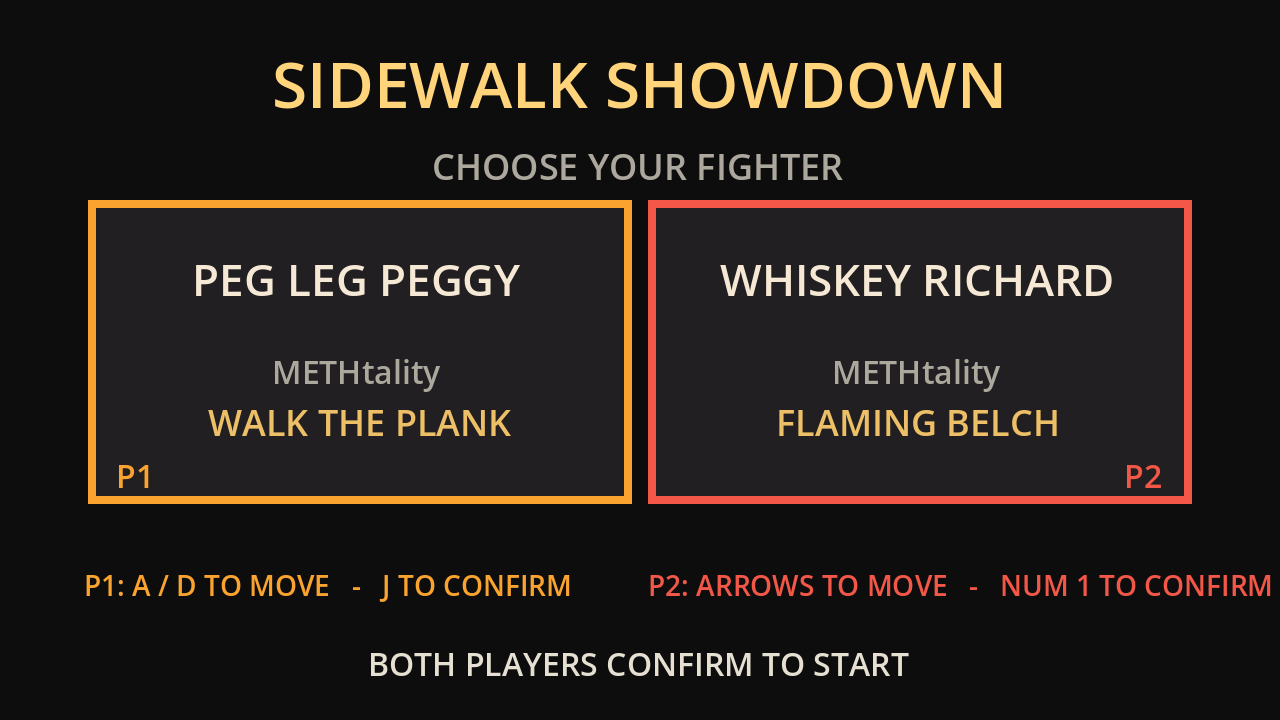
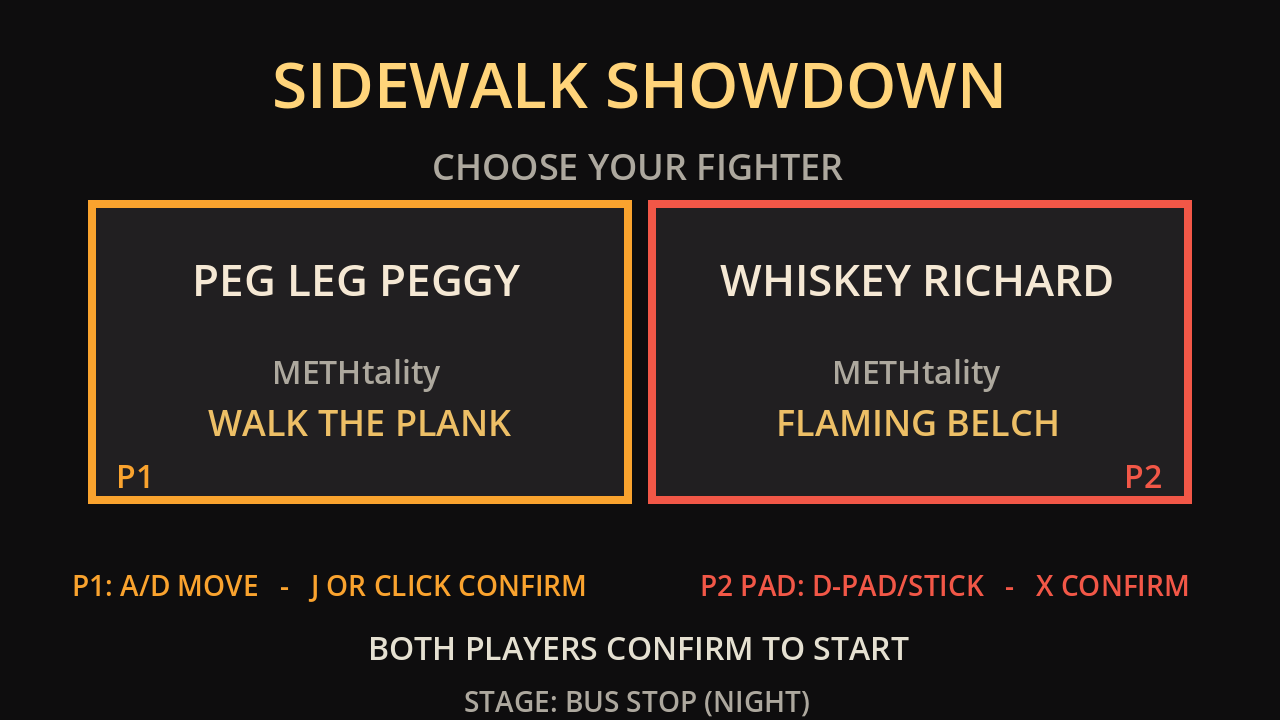
feat(input): add controller support with P1 keyboard/mouse, P2 pad (#53)
Implements GDD §4.2's gamepad column and the owner's device policy: P1 plays on
keyboard + mouse, P2 plays on a controller (any connected pad, d-pad or left
stick). P2's old arrow/numpad bindings are removed, so a single keyboard cannot
drive both fighters.

Pad layout follows GDD §4.2: X light, Y heavy, B special, A grab, right shoulder
METHtality, Start pause. P1 gains mouse alternates (left/right/middle click for
light/heavy/special). ui_confirm/ui_back keep their keyboard events and gain pad
south/east.

The generator stays idempotent (re-running replaces identical bindings instead
of stacking duplicates) and still documents the [physics] 60 Hz caveat.

Tests replace the keyboard-only input-map sweep with a type-aware one that
replays keys (device 16), mouse (-1), and pad (0) events, asserts P1 has no
controller bindings and P2 none keyboard/mouse, and drives a synthetic pad press
through Input to prove it reaches only P2.

Docs: README controls, input-map notes, phase/known-issue status, GDD §14 note,
and the refreshed character-select screenshot showing the new P2 prompt.

Changed region(s): [[0.2812, 0.8861, 0.7188, 1.0], [0.5, 0.7944, 1.0, 0.825], [0.0625, 0.7944, 0.4688, 0.825]]

diff --git a/docs/KNOWN_ISSUES.md b/docs/KNOWN_ISSUES.md
@@ -76,9 +76,10 @@ reconciliation for the finding-by-finding dispositions.
   Peggy/Richard-only vertical-slice scope. Per owner direction (2026-11-12), an
   initial procedural silhouette-animation pass is underway; authored sprite
   frames remain deferred.
-- Gamepad support and in-game input remapping are GDD §4.1/§4.6/§14
-  requirements but are not implemented; the current input map is generated from
-  a fixed keyboard table.
+- Gamepad support is implemented (2026-11-16): P1 uses keyboard + mouse and P2
+  uses a controller, per owner direction. In-game input remapping is still a GDD
+  §4.1/§4.6/§14 requirement and is not implemented; the input map is generated
+  from a fixed table in `game/tools/setup_input.gd`.
 - METHtality activation requires full meter only; opponent health, state, and
   invulnerability do not gate starting the finisher. GDD §5.9's final-round
   finish prompt and cinematic remain future design/implementation.
@@ -173,13 +174,28 @@ the generator and regenerate:
 godot --headless --path game --script res://tools/setup_input.gd
 ```
 
-Every event is written with `device = -1` (matches any device). In Godot 4.7 a
-new `InputEventKey` reports the local keyboard's concrete device id (`16` on the
-dev machine), and the serializer writes whatever it holds; a concrete stamp
-therefore makes the map depend on the machine that generated it. Physical
+**Device policy (owner decision, 2026-11-16):** P1 is keyboard + mouse only; P2
+is controller only.
+
+- `p1_*` gets `InputEventKey` bindings plus mouse alternates for light (left
+  click), heavy (right click), and special (middle click). No joypad events.
+- `p2_*` gets only `InputEventJoypadButton` / `InputEventJoypadMotion` events:
+  d-pad or left stick to move, X light, Y heavy, B special, A grab, right
+  shoulder METHtality, Start pause (GDD §4.2). Any arrow/numpad binding from the
+  old shared keyboard map was removed. `ui_confirm`/`ui_back` keep their keyboard
+  events and gain pad south/east.
+- Joypad events use `device = -1`, so whichever pad is connected drives P2
+  regardless of port. Two-player local play is therefore keyboard/mouse vs pad.
+
+Every keyboard event is written with `device = -1` (matches any device). In Godot
+4.7 a new `InputEventKey` reports the local keyboard's concrete device id (`16`
+on the dev machine), and the serializer writes whatever it holds; a concrete
+stamp therefore makes the map depend on the machine that generated it. Physical
 keyboard events observed through XTest carry device `16`, so
-`game/tests/combat_test.gd` replays each mapped key with device `16` and fails if
-any of them stops resolving.
+`game/tests/combat_test.gd` replays each mapped key with device `16`, each pad
+event with device `0`, and each mouse event with device `-1`, and fails if any of
+them stops resolving. It also asserts that P2 has no keyboard/mouse bindings and
+P1 has no controller bindings.
 
 Regeneration caveat: `ProjectSettings.save()` omits settings whose value equals
 the engine default, and `physics/common/physics_ticks_per_second = 60` *is* the
@@ -267,7 +283,9 @@ that section by hand afterward — the simulation step comes from
   numbers and the reward/whiff-punish ratios (0.80 Peggy / 0.97 Richard) are
   informational; owner decision (2026-11-07): confirmed provisional, revisit in
   Phase 9.
-- **No character/stage select.** Fixed matchup + Bus Stop (Night).
+- **No stage select.** Character select exists and reads the shared roster, but
+  the match always starts on the roster's first stage (Bus Stop (Night)); there
+  is no stage picker or stage rotation yet.
 - **Debug overlay is dev-only.** Boxes, frame state, frame advantage, input
   history, slow motion, frame-step and refill exist; there is no AI state view
   (there is no AI yet) and no hitbox-invariant assertions.
@@ -323,7 +341,7 @@ These are measured or first-pass limits, not phase-exit validation.
 
 ## Test coverage
 
-- `game/tests/combat_test.gd` — **337 checks**: distinct Peggy/Richard sheet
+- `game/tests/combat_test.gd` — **340 checks**: distinct Peggy/Richard sheet
   artwork in walk states, the authored idle sheet (selection, visibility, cel
   cadence, wrap, hitstop/pause freeze, re-entry reset, facing pivot, and the
   missing-art fallback), unchanged combat boxes, clean hits and

diff --git a/README.md b/README.md
@@ -37,7 +37,7 @@ who turns sidewalk chaos into a rigged tournament.**
 - **Match structure** — rounds, timer, sudden death after repeated timeouts,
   KO flow, pause menu, and a text-only Tripp commentary sample.
 
-Not in yet: gamepad and remapping, stage select, CPU AI, campaign, final
+Not in yet: input remapping, stage select, CPU AI, campaign, final
 audio/voice/VFX, and final art/cleaning for some clips. Online play is deferred
 beyond v0.1 per GDD §2.4/§16.
 
@@ -56,25 +56,28 @@ godot --headless --path game --script res://tests/character_select_test.gd
 godot --headless --path game --script res://tests/the_clip_test.gd
 ```
 
-Current suites: **combat 337 checks**, round flow 34, character select 18,
+Current suites: **combat 340 checks**, round flow 34, character select 18,
 The Clip 23 — all green in CI (`tests.yml`). `tests/air_probe.gd` prints balance
 metrics and asserts nothing.
 
 ## Controls
 
-Both players share one keyboard: **P1 is WASD only**, the arrow keys belong to P2.
+**P1 plays on keyboard + mouse; P2 plays on a controller.** Any connected pad
+drives P2, using either the d-pad or the left stick to move. The pad layout is
+GDD §4.2's: X light, Y heavy, B special, A grab, right shoulder for the
+METHtality finisher.
 
-| Action | P1 (Peg Leg Peggy) | P2 (Whiskey Richard) |
+| Action | P1 keyboard / mouse | P2 controller |
 |---|---|---|
-| Move | A / D | ← / → (or Numpad 4 / 6) |
-| Jump | W | ↑ (or Numpad 8) |
-| Crouch | S | ↓ (or Numpad 2) |
-| Light attack | J | Numpad 1 or `,` |
-| Heavy attack | K | Numpad 3 or `.` |
-| Special | L | Numpad 5 or `/` |
-| Grab / throw | U | Numpad 7 or `;` |
-| METHtality | I | Numpad 9 or `'` |
-| Pause | Esc | Numpad 0 |
+| Move | A / D | D-pad or left stick |
+| Jump | W | D-pad up or stick up |
+| Crouch | S | D-pad down or stick down |
+| Light attack | J or left click | X |
+| Heavy attack | K or right click | Y |
+| Special | L or middle click | B |
+| Grab / throw | U | A |
+| METHtality | I | Right shoulder (RB/R1) |
+| Pause | Esc | Start / Menu |
 
 - **Block** by holding away from the opponent (down-away blocks lows), including
   during blockstun. Chip damage cannot KO — a blocked hit always leaves 1 HP.
@@ -83,14 +86,15 @@ Both players share one keyboard: **P1 is WASD only**, the arrow keys belong to P
 - **METHtality:** with a full meter, press METHtality to spend the whole bar.
   Current presentation is a freeze plus banner; the normal KO flow ends the round.
 - **Specials are directional:** neutral, forward, back, down, and air (GDD §4.4).
-- `Enter` restarts after a match ends. Pause menu drives with W/S, arrows, or
-  Numpad 8/2; J, Numpad 1, or Enter picks.
+- `Enter` restarts after a match ends. Pause menu drives with W/S, the d-pad or
+  stick, or arrows; J, X, or Enter picks.
 
 Debug keys: **F1** boxes (on by default), **F2** frame state/advantage/invuln,
 **F3** input history, **F4** slow motion, **F5** frame-step, **F6** refill both
-fighters. Regenerate the input map with
-`godot --headless --path game --script res://tools/setup_input.gd` after editing
-the table above.
+fighters. The input map is generated, not hand-edited: change the tables in
+`game/tools/setup_input.gd` and run
+`godot --headless --path game --script res://tools/setup_input.gd`, then restore
+the `[physics] 60 Hz` entry that `ProjectSettings.save()` drops (the tool says so).
 
 ## Builds
 

diff --git a/docs/PHASE_STATUS.md b/docs/PHASE_STATUS.md
@@ -73,7 +73,7 @@ phase exit criteria:
   blocking and round flow work, and the match can end/restart.
 - **Status:** **Implemented and regression-verified.** The Peggy/Richard slice,
   Bus Stop stage, combat, HUD, round manager, debug overlay, and pause path exist.
-  The current suites contain 337 combat, 34 round-flow, 15 audio/select
+  The current suites contain 340 combat, 34 round-flow, 18 audio/select
   integration, and 23 intro checks. K1, R1, corner separation, bounded hitstop
   buffer freeze, and the
   post-KO winner-state repair are covered. Non-METH strikes reject during
@@ -161,7 +161,9 @@ phase exit criteria:
   `Array[StageData]`); `MatchRoot` builds the stage from `selected_stage.scene`
   and no longer preloads either fighter or the Bus Stop scene, so adding a
   fighter or stage is a roster edit rather than a code edit.
-  Input has no remapping UI; training is limited to debug controls; AI,
+  Gamepad play is implemented (2026-11-16): P1 keyboard + mouse, P2 controller,
+  with the standard pad attack layout. There is no remapping UI; training is
+  limited to debug controls; AI,
   save/unlock, a full audio manager/mixer, and an authored hitbox editor workflow
   are missing. A small Phase 2 audio service plays the temporary track and cues.
   Dash/backdash states are absent.

diff --git a/docs/PIXELORAMA_PIPELINE.md b/docs/PIXELORAMA_PIPELINE.md
@@ -395,7 +395,7 @@ Runtime (`game/scripts/combat/richard_clip_library.gd`, new; `fighter_base.gd`):
   hold, and procedural-transform suppression are shared with Peggy and
   unchanged; the only per-fighter data is the table.
 
-Tests: `combat_test.gd` extended to **337 checks, 0 failures**. New Richard
+Tests: `combat_test.gd` extended to **340 checks, 0 failures**. New Richard
 coverage: library integrity (cel geometry, 39 distinct enabled textures),
 all-16 move mapping incl. `richard_*` targets, gated optional clips, live
 walk/crouch-hold/crouch-entry, exact light/heavy/meth phase boundaries,
@@ -493,6 +493,6 @@ existing stand-up transient mechanism was generalised:
 
 No simulation state, frame timing, hurtbox, buffer, or collision value changed;
 the crouch hurtbox is still the 0.65 pushbox from the first crouch frame.
-Verification: `combat_test.gd` is at **337 checks, 0 failures**, including a new
+Verification: `combat_test.gd` is at **340 checks, 0 failures**, including a new
 3-check crouch-entry group and an assertion that the entry transient defers the
 guard pose. `round_flow` 34, `character_select` 18, `the_clip` 23 all green.

diff --git a/GDD.md b/GDD.md
@@ -1864,8 +1864,9 @@ Possible updates:
 - keyboard/controller support
 - hitbox debug
 
-> **Implementation-status note (2026-11-11):** keyboard support exists and is
-> tested; gamepad support and the remap UI are missing. A text-only character
+> **Implementation-status note (2026-11-16):** keyboard and mouse support exist
+> and are tested, and a controller drives P2 (P1 is keyboard + mouse only, per
+> owner direction). The in-game remap UI is still missing. A text-only character
 > select mockup now precedes the match, but there is no full main-menu or stage
 > select flow. See `docs/PHASE_STATUS.md` for the gate status.
 
